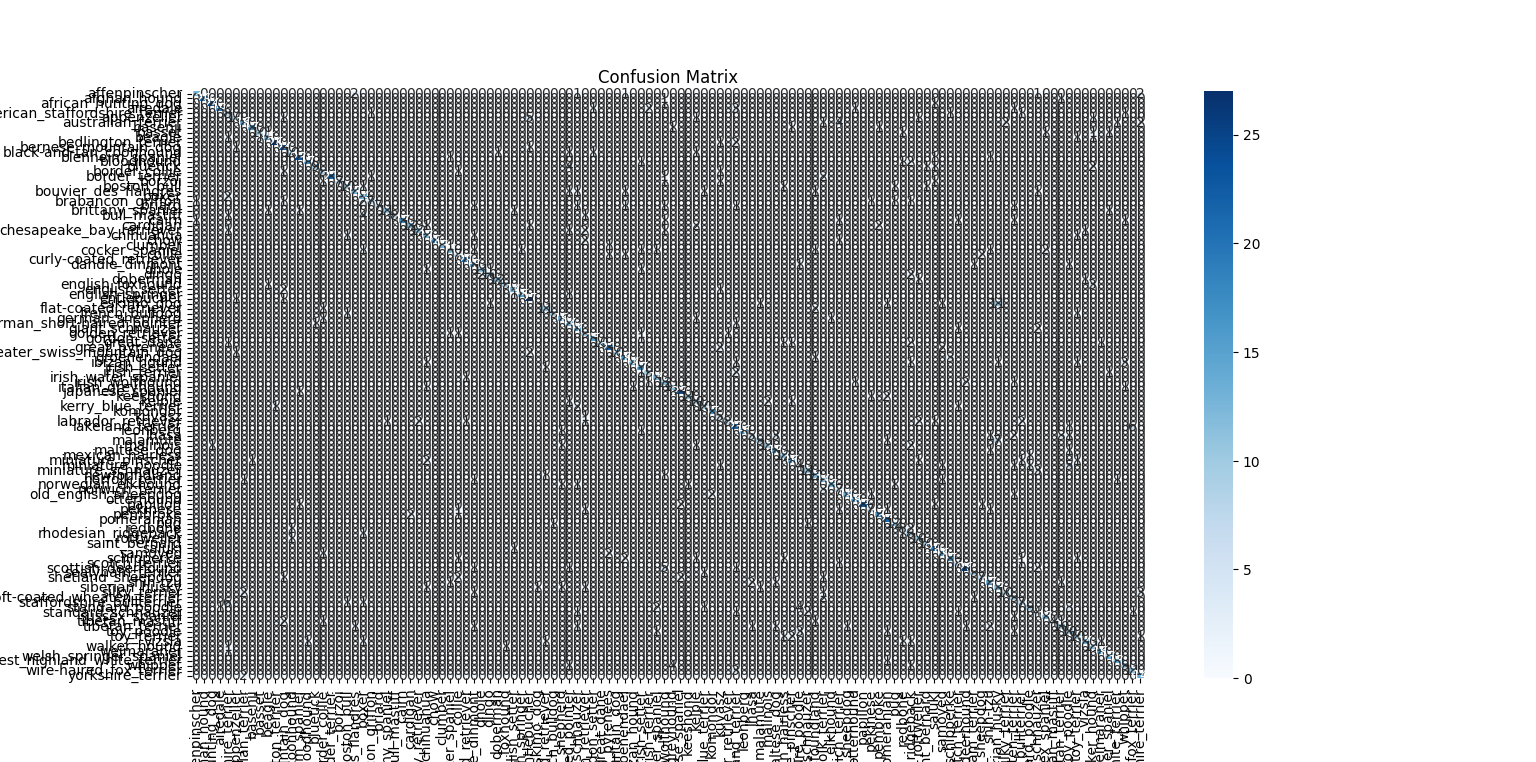
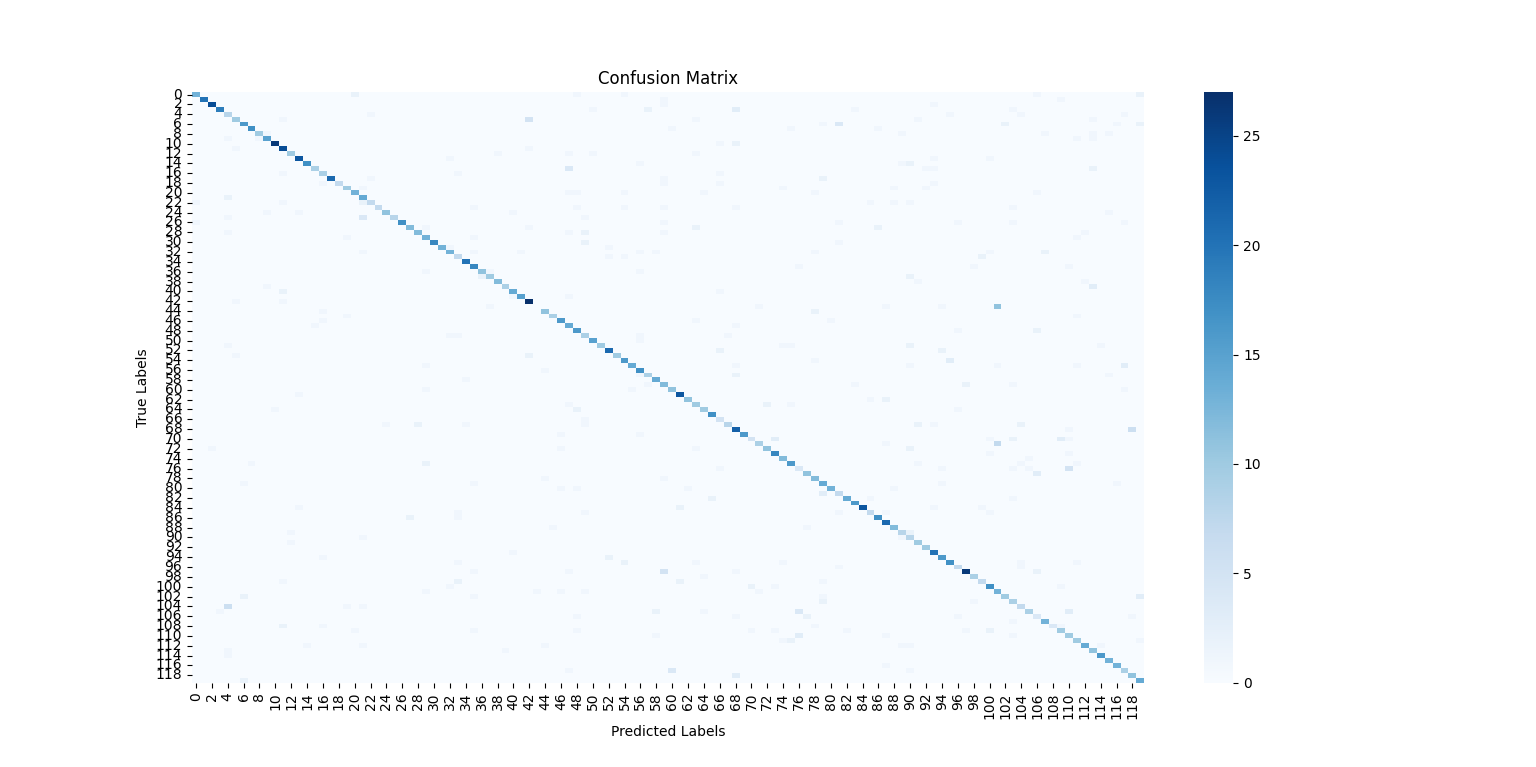
results cm

diff --git a/model_evaluation.py b/model_evaluation.py
@@ -67,8 +67,10 @@ def get_confusion_matrix(model, validation_data, y_val):
     return cm
 
 def plot_confusion_matrix(cm, class_labels):
-    plt.figure(figsize=(30, 30))
-    sns.heatmap(cm, annot=True, fmt='d', cmap='Blues', xticklabels=class_labels, yticklabels=class_labels)
+    for i in range(len(class_labels)):
+        print(f"{i}: {class_labels[i]}")
+    plt.figure(figsize=(15, 15))
+    sns.heatmap(cm, annot=False, fmt='d', cmap='Blues')
     plt.xlabel('Predicted Labels')
     plt.ylabel('True Labels')
     plt.title('Confusion Matrix')
